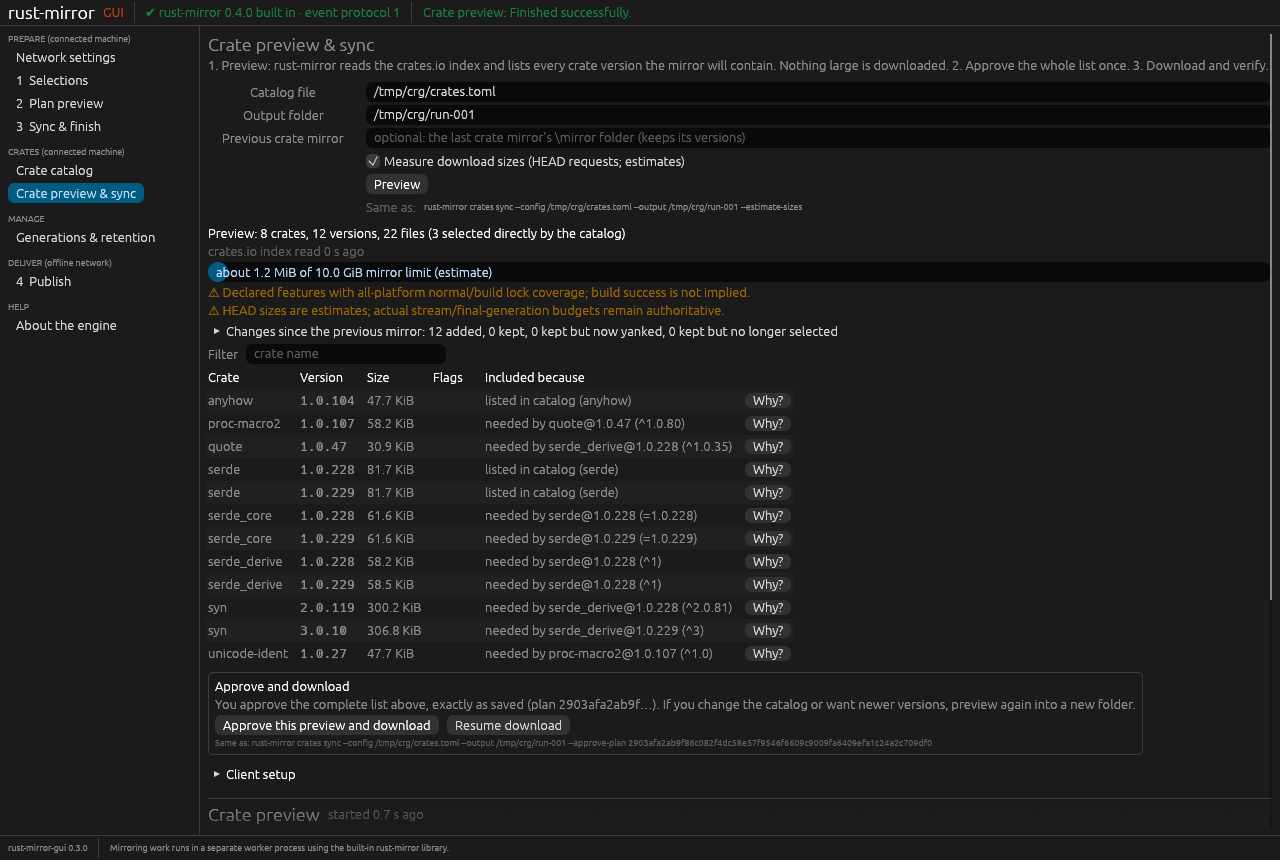
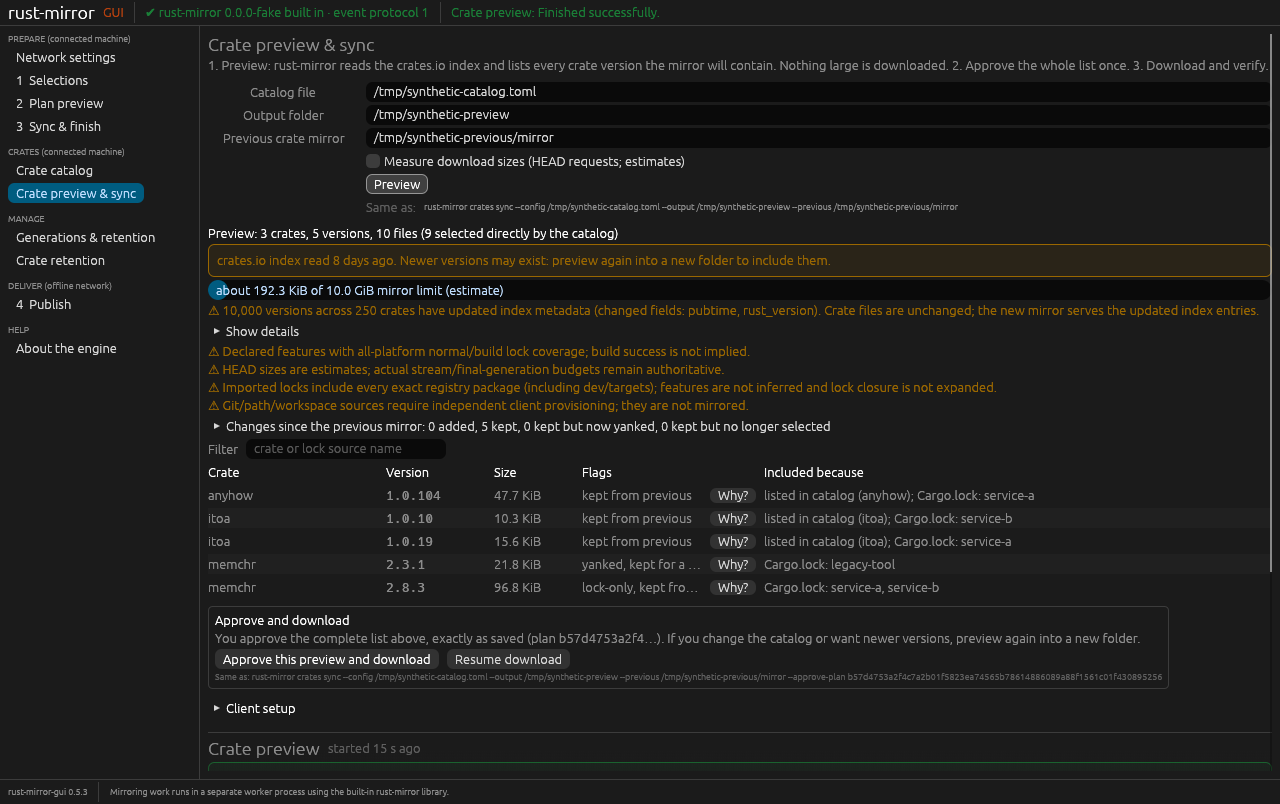
Refresh tutorial preview screenshot and label synthetic data

Changed region(s): [[0.0938, 0.0, 1.0, 0.995], [0.0, 0.0, 0.125, 0.4353], [0.0, 0.9639, 0.0625, 0.995]]

diff --git a/docs/TUTORIAL.md b/docs/TUTORIAL.md
@@ -586,10 +586,10 @@ Open **Crate preview & sync**:
 5. Press **Preview**. rust-mirror reads the crates.io index and saves the
    complete list in the output folder. Nothing large is downloaded.
 
-![Preview: 12 versions with sizes, flags and the reason each is included](screenshots/crates-3-preview.png)
+![Synthetic fake-backend preview: sizes, grouped warnings and the reason each version is included](screenshots/crates-3-preview.png)
 
 How to read it:
-- **"8 crates, 12 versions, 22 files"**: the whole mirror. Files include the
+- **"3 crates, 5 versions, 10 files"**: the whole mirror. Files include the
   index entries.
 - **"crates.io index read 8 days ago"**: freshness uses readable minutes,
   hours or days, and shows a warning after a day. Preview again into a new
